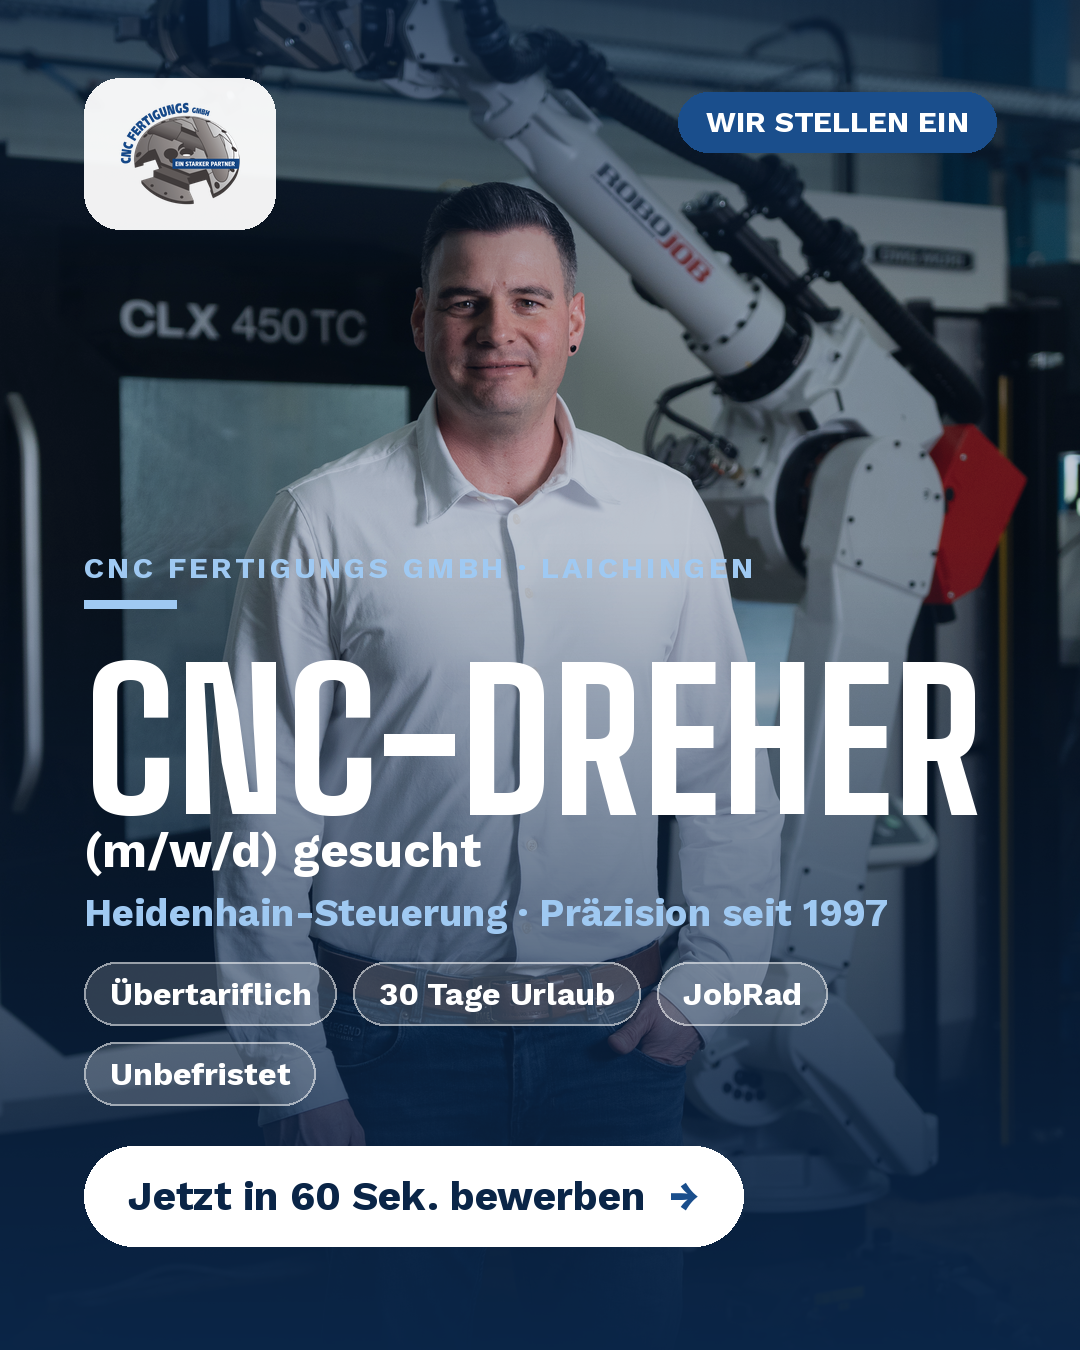
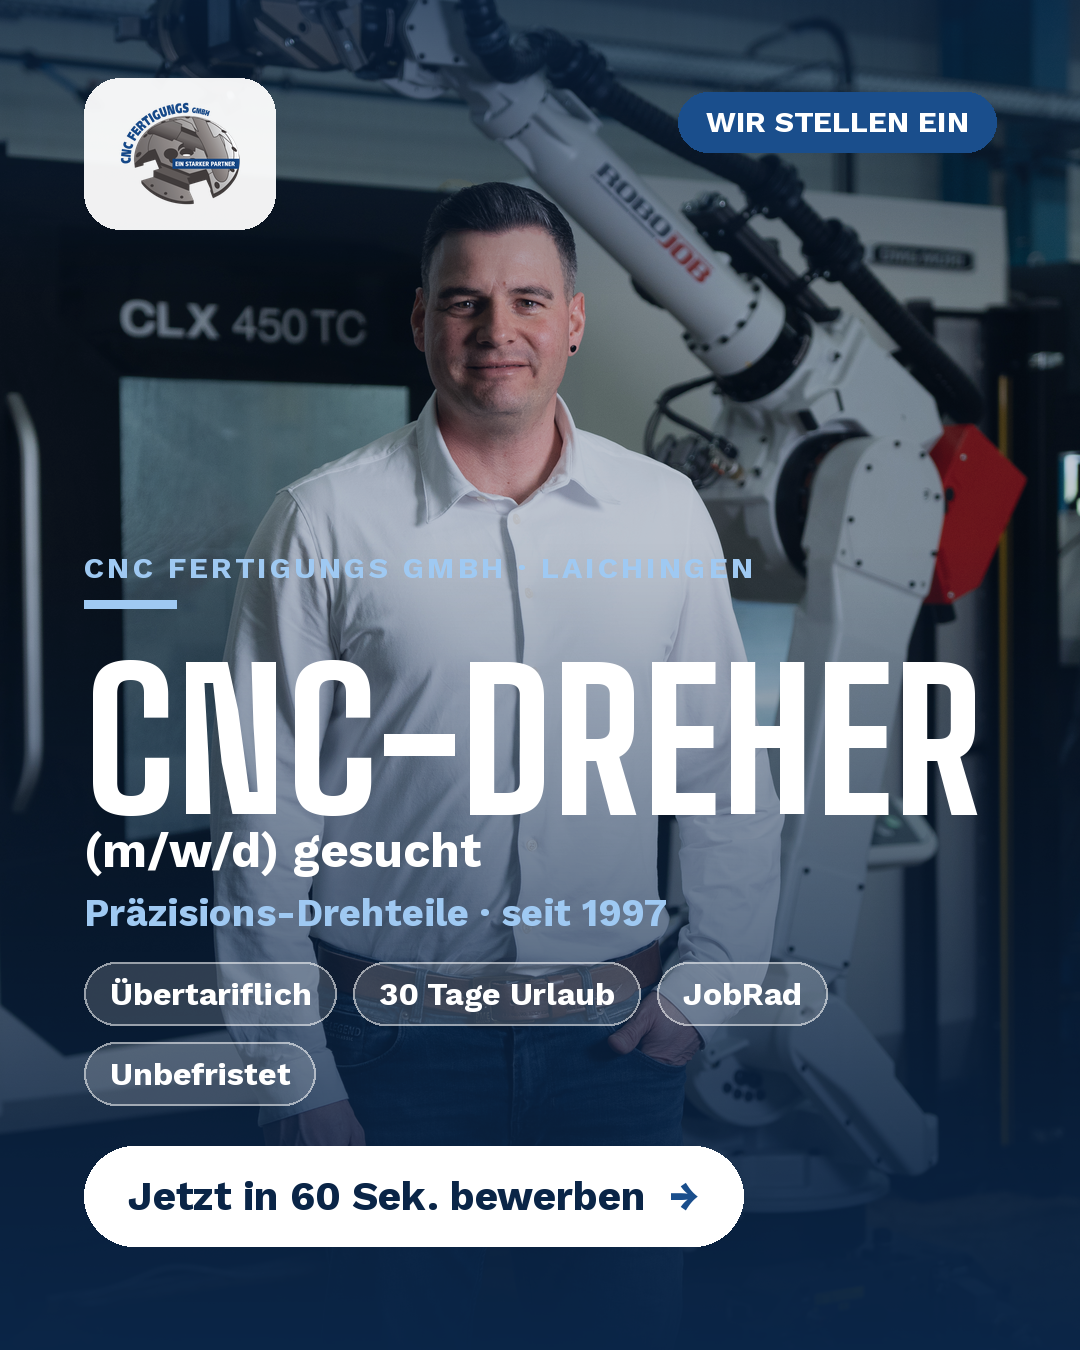
Begriff "Heidenhain-Steuerung" überall entfernt (nicht vorab kommunizieren)
- Stelle heißt jetzt schlicht "CNC-Dreher (m/w/d)" (Seite, Funnel, JSON-LD, Deeplink-Preselect)
- Heidenhain aus Meta-Title/Description/OG, Aufgaben, Step-3-Hinweis und FAQ entfernt/umformuliert
- ALIASES-Key "heidenhain" entfernt
- Werbetexte & README bereinigt
- CNC-Dreher-Creatives neu erzeugt: Hook jetzt "Präzisions-Drehteile · seit 1997"
- Getestet: Preselect/Deeplink mit neuem Label ok, keine JS-Fehler

Claude-Session: https://claude.ai/code/session_01LkrJuFo7q2Ef1LQvF4h3HW

Changed region(s): [[0.0917, 0.6533, 0.825, 0.6844]]

diff --git a/index.html b/index.html
@@ -4,8 +4,8 @@
 <meta charset="UTF-8" />
 <meta name="viewport" content="width=device-width, initial-scale=1.0" />
 
-<title>Karriere bei der CNC Fertigungs GmbH · CNC-Dreher (Heidenhain) & Rundschleifer (m/w/d) in Laichingen</title>
-<meta name="description" content="CNC Fertigungs GmbH in Laichingen sucht: CNC-Dreher mit Heidenhain-Steuerung und Rundschleifer (m/w/d). Unbefristet, Vollzeit, übertarifliche Bezahlung, 30 Tage Urlaub, betriebliche Altersvorsorge & JobRad. Jetzt in unter 60 Sekunden bewerben – ohne Anschreiben." />
+<title>Karriere bei der CNC Fertigungs GmbH · CNC-Dreher & Rundschleifer (m/w/d) in Laichingen</title>
+<meta name="description" content="CNC Fertigungs GmbH in Laichingen sucht: CNC-Dreher und Rundschleifer (m/w/d). Unbefristet, Vollzeit, übertarifliche Bezahlung, 30 Tage Urlaub, betriebliche Altersvorsorge & JobRad. Jetzt in unter 60 Sekunden bewerben – ohne Anschreiben." />
 <meta name="robots" content="index, follow, max-image-preview:large" />
 <meta name="theme-color" content="#1a4e8c" />
 <meta name="geo.region" content="DE-BW" />
@@ -17,7 +17,7 @@
 <meta property="og:locale" content="de_DE" />
 <meta property="og:site_name" content="CNC Fertigungs GmbH" />
 <meta property="og:title" content="Karriere bei der CNC Fertigungs GmbH – Jobs in Laichingen" />
-<meta property="og:description" content="CNC-Dreher (Heidenhain) & Rundschleifer (m/w/d) gesucht. Unbefristet, übertariflich, 30 Tage Urlaub, bAV & JobRad. Jetzt bewerben – Lebenslauf optional." />
+<meta property="og:description" content="CNC-Dreher & Rundschleifer (m/w/d) gesucht. Unbefristet, übertariflich, 30 Tage Urlaub, bAV & JobRad. Jetzt bewerben – Lebenslauf optional." />
 <meta property="og:url" content="https://www.cncfertigung.de/karriere" />
 
 <link rel="preconnect" href="https://fonts.googleapis.com" />
@@ -31,13 +31,13 @@
   "@graph": [
     {
       "@type": "JobPosting",
-      "title": "CNC-Dreher – Heidenhain-Steuerung (m/w/d)",
-      "description": "Programmieren, Einrichten und Bedienen von CNC-Drehmaschinen mit Heidenhain-Steuerung. Fertigung von Präzisions-Drehteilen, Prototypen und Kleinserien nach Zeichnung inkl. Eigenkontrolle. Zweischichtbetrieb am Standort Laichingen.",
+      "title": "CNC-Dreher (m/w/d)",
+      "description": "Programmieren, Einrichten und Bedienen von CNC-Drehmaschinen. Fertigung von Präzisions-Drehteilen, Prototypen und Kleinserien nach Zeichnung inkl. Eigenkontrolle. Zweischichtbetrieb am Standort Laichingen.",
       "datePosted": "2026-09-07",
       "employmentType": "FULL_TIME",
       "hiringOrganization": { "@type": "Organization", "name": "CNC Fertigungs GmbH", "sameAs": "https://www.cncfertigung.de/" },
       "jobLocation": { "@type": "Place", "address": { "@type": "PostalAddress", "streetAddress": "Gottlieb-Daimler-Straße 39", "addressLocality": "Laichingen", "postalCode": "89150", "addressRegion": "BW", "addressCountry": "DE" } },
-      "qualifications": "Abgeschlossene Ausbildung als Zerspanungsmechaniker / CNC-Dreher oder vergleichbar, idealerweise Erfahrung mit Heidenhain-Steuerung.",
+      "qualifications": "Abgeschlossene Ausbildung als Zerspanungsmechaniker / CNC-Dreher oder vergleichbar.",
       "url": "https://www.cncfertigung.de/karriere",
       "directApply": true
     },
@@ -414,16 +414,16 @@ footer{padding:52px 0 36px;background:var(--brand-900);color:#dcecfb}
     <div class="job-grid">
       <article class="job reveal">
         <div class="job__photo"><img src="bilder/job-dreher.jpg" alt="CNC-Drehmaschine CLX 450 TC bei der CNC Fertigungs GmbH" loading="lazy" /></div>
-        <h3>CNC-Dreher – Heidenhain-Steuerung (m/w/d)</h3>
+        <h3>CNC-Dreher (m/w/d)</h3>
         <div class="job__meta"><span class="tag">Vollzeit</span><span class="tag">Unbefristet</span><span class="tag">Zweischicht</span></div>
         <h4>Deine Aufgaben</h4>
         <ul>
-          <li>Programmieren, Einrichten &amp; Bedienen von CNC-Drehmaschinen (Heidenhain)</li>
+          <li>Programmieren, Einrichten &amp; Bedienen von CNC-Drehmaschinen</li>
           <li>Fertigung von Präzisions-Drehteilen, Prototypen &amp; Kleinserien nach Zeichnung</li>
           <li>Eigenkontrolle, Messen &amp; Prüfen der gefertigten Teile</li>
         </ul>
         <div class="job__foot">
-          <button class="btn btn--primary" data-apply="CNC-Dreher – Heidenhain-Steuerung (m/w/d)">Jetzt bewerben</button>
+          <button class="btn btn--primary" data-apply="CNC-Dreher (m/w/d)">Jetzt bewerben</button>
           <a class="job__link" href="https://www.cncfertigung.de/karriere" target="_blank" rel="noopener">Zur vollständigen Stellenausschreibung</a>
         </div>
       </article>
@@ -519,7 +519,7 @@ footer{padding:52px 0 36px;background:var(--brand-900);color:#dcecfb}
           <h3>Für welche Stelle möchtest du dich bewerben?</h3>
           <p class="hint">Wähle die passende Position aus.</p>
           <div class="choice-grid" data-field="stelle">
-            <label class="choice"><input type="radio" name="stelle" value="CNC-Dreher – Heidenhain-Steuerung (m/w/d)" /><span class="key">A</span><span>CNC-Dreher – Heidenhain-Steuerung (m/w/d)<small>Drehen · Heidenhain · Prototypen &amp; Kleinserien</small></span></label>
+            <label class="choice"><input type="radio" name="stelle" value="CNC-Dreher (m/w/d)" /><span class="key">A</span><span>CNC-Dreher (m/w/d)<small>Drehen · Prototypen &amp; Kleinserien</small></span></label>
             <label class="choice"><input type="radio" name="stelle" value="Rundschleifer (m/w/d)" /><span class="key">B</span><span>Rundschleifer (m/w/d)<small>Rundschleifen · engste Toleranzen · Präzision</small></span></label>
           </div>
         </div>
@@ -540,7 +540,7 @@ footer{padding:52px 0 36px;background:var(--brand-900);color:#dcecfb}
         <!-- STEP 3 -->
         <div class="fstep" data-step="3">
           <h3>Erfahrung an CNC-Maschinen</h3>
-          <p class="hint">Steuerungen wie Heidenhain, Fanuc oder Siemens.</p>
+          <p class="hint">Egal welche Steuerung – wichtig ist dein Können.</p>
           <p class="q">Wie viel Erfahrung hast du an CNC-Maschinen?<span class="req">*</span></p>
           <div class="choice-grid" data-field="cnc_erfahrung">
             <label class="choice"><input type="radio" name="cnc_erfahrung" data-score="3" value="Programmiere und richte selbstständig ein" /><span class="key">A</span><span>Ich programmiere &amp; richte selbstständig ein</span></label>
@@ -640,8 +640,8 @@ footer{padding:52px 0 36px;background:var(--brand-900);color:#dcecfb}
     </div>
     <div class="faq">
       <details><summary>Brauche ich einen Lebenslauf?</summary><div class="faq__a">Nein. Für die Bewerbung reichen die Angaben im Formular. Wenn du magst, kannst du deinen Lebenslauf im letzten Schritt optional hochladen (PDF, Word oder Foto) – Pflicht ist das nicht.</div></details>
-      <details><summary>Welche Voraussetzungen sollte ich mitbringen?</summary><div class="faq__a">Für beide Stellen ist eine abgeschlossene Ausbildung im Zerspanungsbereich (z. B. Zerspanungsmechaniker) oder einschlägige Berufserfahrung wichtig. Beim CNC-Dreher ist Erfahrung mit der Heidenhain-Steuerung von Vorteil. Die vollständigen Anforderungen findest du in der jeweiligen Stellenausschreibung.</div></details>
-      <details><summary>Muss ich schon Erfahrung mit Heidenhain haben?</summary><div class="faq__a">Erfahrung mit der Heidenhain-Steuerung ist ideal, aber kein Muss – wichtiger ist dein zerspanungstechnisches Können. In das Übrige arbeiten wir dich sorgfältig ein.</div></details>
+      <details><summary>Welche Voraussetzungen sollte ich mitbringen?</summary><div class="faq__a">Für beide Stellen ist eine abgeschlossene Ausbildung im Zerspanungsbereich (z. B. Zerspanungsmechaniker) oder einschlägige Berufserfahrung wichtig. Die vollständigen Anforderungen findest du in der jeweiligen Stellenausschreibung.</div></details>
+      <details><summary>Muss ich eine bestimmte CNC-Steuerung beherrschen?</summary><div class="faq__a">Nein – wichtiger ist dein zerspanungstechnisches Können. In unsere Steuerungen arbeiten wir dich sorgfältig ein.</div></details>
       <details><summary>Wie schnell bekomme ich eine Rückmeldung?</summary><div class="faq__a">Wir melden uns persönlich und schnell – in der Regel telefonisch für ein kurzes, lockeres Erstgespräch.</div></details>
       <details><summary>Sind die Stellen befristet?</summary><div class="faq__a">Nein. Beide Stellen sind unbefristete Festanstellungen in Vollzeit am Standort Laichingen.</div></details>
       <details><summary>Wer sieht meine Daten?</summary><div class="faq__a">Nur die für das Recruiting zuständigen Personen der CNC Fertigungs GmbH. Deine Daten werden gemäß Art. 6 Abs. 1 lit. a DSGVO ausschließlich zur Bearbeitung deiner Bewerbung verwendet.</div></details>
@@ -697,11 +697,11 @@ footer{padding:52px 0 36px;background:var(--brand-900);color:#dcecfb}
   var REJECT_AT     = 0;
 
   var ALIASES = {
-    "cnc-dreher":"cnc-dreher","cncdreher":"cnc-dreher","dreher":"cnc-dreher","cnc":"cnc-dreher","heidenhain":"cnc-dreher","drehen":"cnc-dreher","zerspaner":"cnc-dreher",
+    "cnc-dreher":"cnc-dreher","cncdreher":"cnc-dreher","dreher":"cnc-dreher","cnc":"cnc-dreher","drehen":"cnc-dreher","zerspaner":"cnc-dreher",
     "rundschleifer":"rundschleifer","schleifer":"rundschleifer","schleifen":"rundschleifer","rundschleifen":"rundschleifer","schleif":"rundschleifer"
   };
   var POSITIONS = {
-    "cnc-dreher":"CNC-Dreher – Heidenhain-Steuerung (m/w/d)",
+    "cnc-dreher":"CNC-Dreher (m/w/d)",
     "rundschleifer":"Rundschleifer (m/w/d)"
   };
 

diff --git a/werbetexte-meta-ads.md b/werbetexte-meta-ads.md
@@ -1,7 +1,7 @@
 # Meta Ads – Werbetexte · CNC Fertigungs GmbH (Laichingen)
 
 Zielgruppe: Zerspanungs-Fachkräfte im Umkreis Laichingen / Alb-Donau-Kreis / Ulm.
-Ziel: qualifizierte Bewerbungen (CNC-Dreher mit Heidenhain, Rundschleifer).
+Ziel: qualifizierte Bewerbungen (CNC-Dreher, Rundschleifer).
 Tonalität: direkt, wertschätzend, handwerklich – kein Konzern-Sprech, „du“.
 
 **Ziel-URLs (mit Deeplink + UTM):**
@@ -14,12 +14,12 @@ Empfohlene CTA-Buttons: **„Jetzt bewerben“** (bzw. „Mehr dazu“). Platzie
 
 ---
 
-## 1) CNC-Dreher – Heidenhain-Steuerung (m/w/d)
+## 1) CNC-Dreher (m/w/d)
 
 ### Primary Text – Variante A (Handwerk & Wertschätzung)
 Du drehst Präzision – wir wissen sie zu schätzen. 🛠
 
-Die CNC Fertigungs GmbH in Laichingen sucht einen **CNC-Dreher mit Heidenhain-Steuerung (m/w/d)**. Bei uns fertigst du keine Massenware, sondern hochpräzise Einzelteile, Prototypen und Kleinserien für den Sondermaschinenbau – auf modernem Maschinenpark.
+Die CNC Fertigungs GmbH in Laichingen sucht einen **CNC-Dreher (m/w/d)**. Bei uns fertigst du keine Massenware, sondern hochpräzise Einzelteile, Prototypen und Kleinserien für den Sondermaschinenbau – auf modernem Maschinenpark.
 
 ✅ Übertarifliche Bezahlung + Zusatzleistungen
 ✅ 30 Tage Urlaub, betriebliche Altersvorsorge & JobRad
@@ -29,18 +29,18 @@ Die CNC Fertigungs GmbH in Laichingen sucht einen **CNC-Dreher mit Heidenhain-St
 Bewirb dich in unter 60 Sekunden – ohne Anschreiben, Lebenslauf optional. 👉 Jetzt bewerben.
 
 ### Primary Text – Variante B (kurz & knackig)
-CNC-Dreher (m/w/d) mit Heidenhain gesucht – in Laichingen. 🔧
+CNC-Dreher (m/w/d) gesucht – in Laichingen. 🔧
 Unbefristet, übertariflich, 30 Tage Urlaub, bAV + JobRad. Familienbetrieb seit 1997, moderner Maschinenpark, echtes Team.
 Bewerbung in 60 Sekunden – ohne Anschreiben. Jetzt starten 👇
 
 ### Primary Text – Variante C (direkte Ansprache / Wechsel-Trigger)
 Zu wenig Wertschätzung? Immer nur die gleichen Serienteile? ⚙
-Bei der CNC Fertigungs GmbH in Laichingen drehst du anspruchsvolle Präzisionsteile mit Heidenhain-Steuerung – und arbeitest bei einem inhabergeführten Betrieb, der dein Können sieht.
+Bei der CNC Fertigungs GmbH in Laichingen drehst du anspruchsvolle Präzisionsteile für den Sondermaschinenbau – und arbeitest bei einem inhabergeführten Betrieb, der dein Können sieht.
 Übertariflich · 30 Tage Urlaub · bAV · JobRad · unbefristet.
 👉 In 60 Sekunden bewerben – wir melden uns persönlich.
 
 ### Headlines (max. ~40 Zeichen)
-- CNC-Dreher (Heidenhain) m/w/d
+- CNC-Dreher (m/w/d) gesucht
 - Dreh dein Können zu Geld
 - Präzision zahlt sich aus
 - Jetzt in 60 Sek. bewerben

diff --git a/README.md b/README.md
@@ -4,7 +4,7 @@ Recruiting-Landingpage für die **CNC Fertigungs GmbH** (Gottlieb-Daimler-Straß
 Aufbau 1:1 an der ALWA-Karriereseite orientiert – nur in eigenem CI und mit den beiden aktuellen Stellen.
 
 **Beworbene Stellen (nur diese):**
-- CNC-Dreher – Heidenhain-Steuerung (m/w/d)
+- CNC-Dreher (m/w/d)
 - Rundschleifer (m/w/d)
 
 ## Inhalt
